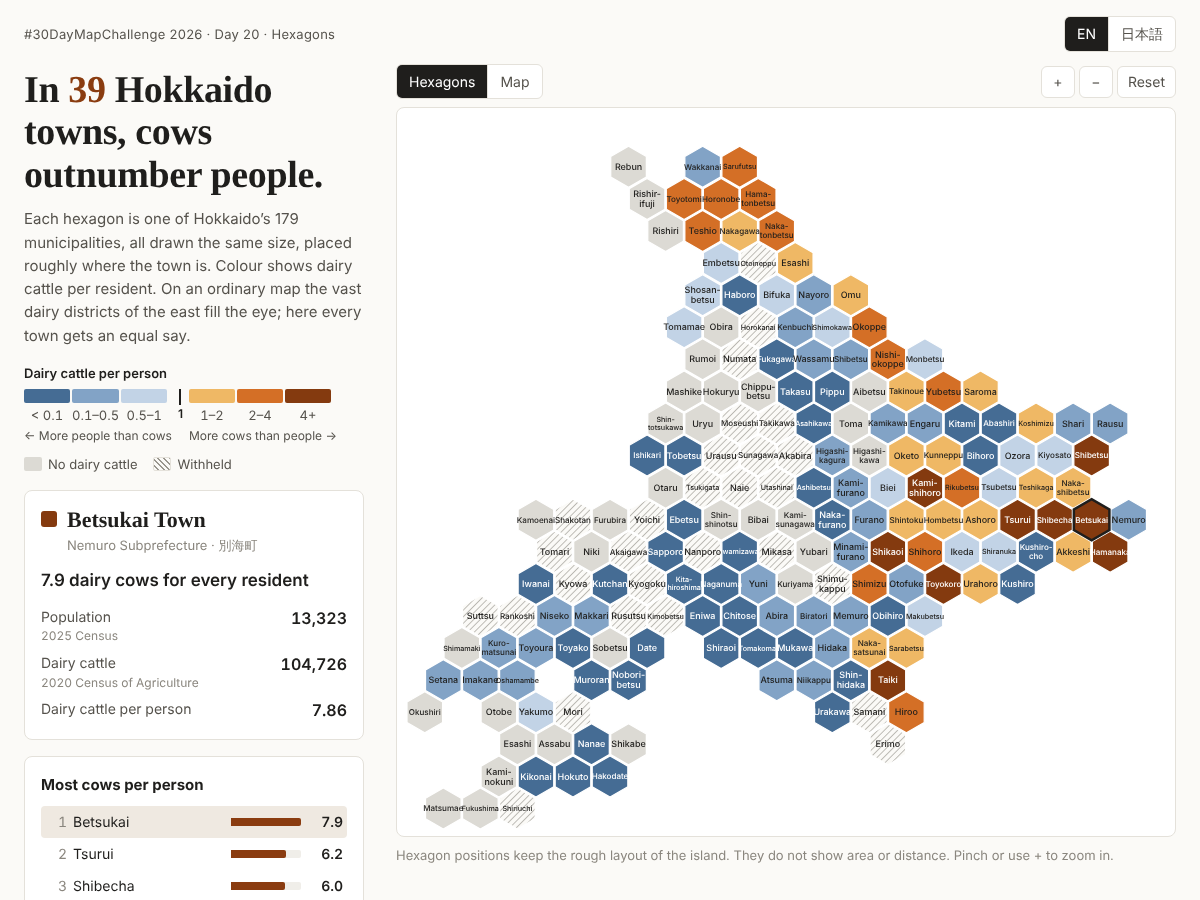
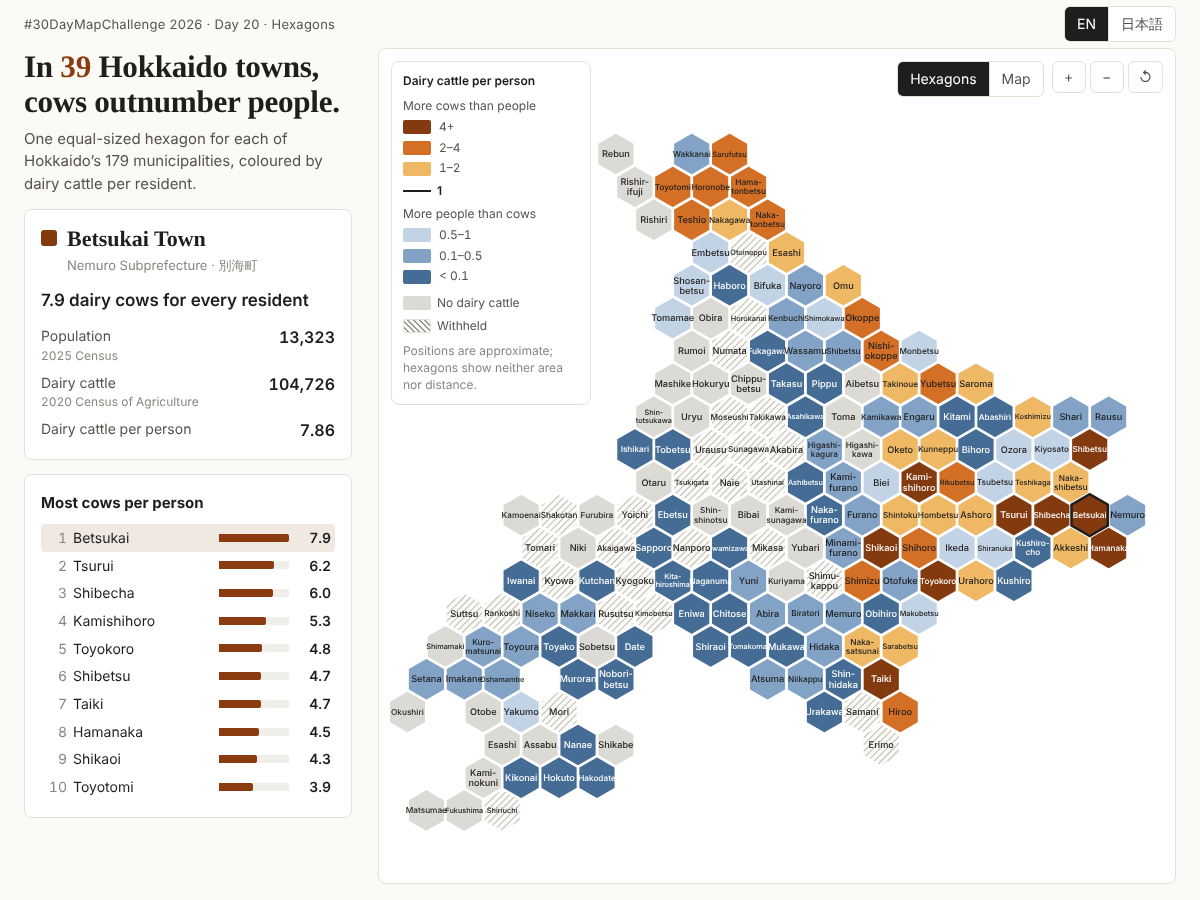
Fit the headline and map on the first screen; overlay the legend and controls on the map

Changed region(s): [[0.0, 0.0, 0.9558, 0.9956], [0.74, 0.0, 0.9867, 0.1244]]

diff --git a/web/style.css b/web/style.css
@@ -26,9 +26,10 @@ a:hover { text-decoration-color: var(--ink); }
 button { font: inherit; color: inherit; }
 
 .top {
-  max-width: 1200px;
+  max-width: 1440px;
   margin: 0 auto;
-  padding: 16px 24px 0;
+  height: 48px;
+  padding: 0 24px;
   display: flex;
   justify-content: space-between;
   align-items: center;
@@ -43,42 +44,35 @@ button { font: inherit; color: inherit; }
 .lang button + button, .seg button + button { border-left: 1px solid var(--rule); }
 .lang button[aria-pressed="true"], .seg button[aria-pressed="true"] { background: var(--ink); color: #fff; }
 
-main { max-width: 1200px; margin: 0 auto; padding: 0 24px 48px; }
+main { max-width: 1440px; margin: 0 auto; padding: 0 24px 48px; }
 
-.intro { padding: 4px 0 0; }
 h1 {
   font-family: var(--serif);
   font-weight: 600;
-  font-size: clamp(28px, 3.2vw, 38px);
+  font-size: clamp(26px, 2.6vw, 34px);
   line-height: 1.12;
-  margin: 0 0 12px;
+  margin: 0 0 8px;
   letter-spacing: -0.01em;
 }
-html[lang="ja"] h1 { letter-spacing: 0; line-height: 1.3; }
+html[lang="ja"] h1 { letter-spacing: 0; line-height: 1.3; font-size: clamp(24px, 2.2vw, 30px); word-break: auto-phrase; }
+html[lang="ja"] .dek { word-break: auto-phrase; }
 h1 .n { color: var(--accent); }
-.dek { margin: 0; color: var(--ink-2); font-size: 15px; }
+.dek { margin: 0; color: var(--ink-2); font-size: 15px; line-height: 1.5; }
 
-.layout {
+/* First screen: panel on the left, map filling the rest of the viewport. */
+.stage {
   display: grid;
-  grid-template-columns: 340px minmax(0, 1fr);
-  grid-template-rows: auto auto auto 1fr;
-  grid-template-areas:
-    "intro map"
-    "legend map"
-    "detail map"
-    "top map";
-  column-gap: 32px;
-  row-gap: 16px;
-  margin-top: 12px;
-  align-items: start;
+  grid-template-columns: 330px minmax(0, 1fr);
+  gap: 24px;
+  height: calc(100vh - 48px);
+  height: calc(100dvh - 48px);
+  min-height: 560px;
+  padding-bottom: 16px;
 }
-.intro { grid-area: intro; }
-.mapcol { grid-area: map; }
-.legend { grid-area: legend; }
-.detail { grid-area: detail; }
-.topcard { grid-area: top; }
+.panel { display: flex; flex-direction: column; gap: 14px; min-height: 0; overflow-y: auto; padding: 2px 2px 2px 0; }
+.panel > * { flex: none; }
+.mapcol { min-height: 0; }
 
-.toolbar { display: flex; justify-content: space-between; align-items: center; gap: 8px; margin-bottom: 8px; flex-wrap: wrap; }
 .zoom { display: inline-flex; gap: 4px; }
 .zoom button {
   min-width: 34px; height: 32px; padding: 0 10px; border: 1px solid var(--rule); background: var(--surface);
@@ -88,13 +82,26 @@ h1 .n { color: var(--accent); }
 
 .mapwrap {
   position: relative;
+  height: 100%;
   background: var(--surface);
   border: 1px solid var(--rule);
   border-radius: 8px;
   overflow: hidden;
   touch-action: none;
 }
-#map { display: block; width: 100%; height: auto; max-height: calc(100vh - 110px); min-height: 320px; cursor: grab; }
+#map { display: block; width: 100%; height: 100%; cursor: grab; }
+
+.ov { position: absolute; z-index: 1; }
+.ov-tools { top: 12px; right: 12px; display: flex; gap: 8px; }
+.ov-legend {
+  right: 12px;
+  bottom: 12px;
+  background: rgba(255, 255, 255, 0.92);
+  border: 1px solid var(--rule);
+  border-radius: 8px;
+  padding: 10px 12px;
+  max-width: 340px;
+}
 #map:active { cursor: grabbing; }
 
 .cell { stroke: var(--surface); stroke-width: 1.2; cursor: pointer; vector-effect: non-scaling-stroke; }
@@ -133,6 +140,8 @@ h1 .n { color: var(--accent); }
 .legend .arm .item { display: flex; flex-direction: column; align-items: center; gap: 2px; min-width: 46px; font-variant-numeric: tabular-nums; }
 .legend .arm .sw { width: 100%; height: 14px; border-radius: 2px; }
 .legend .cap { margin: 2px 0 0; font-size: 12px; }
+.legend .people .cap::before { content: "← "; }
+.legend .cows .cap::after { content: " →"; }
 .legend .mid { align-self: stretch; display: flex; flex-direction: column; align-items: center; }
 .legend .mid i { display: block; width: 2px; height: 16px; background: var(--ink); }
 .legend .mid span { font-size: 12px; color: var(--ink); font-weight: 600; }
@@ -143,11 +152,11 @@ h1 .n { color: var(--accent); }
   background: repeating-linear-gradient(45deg, #fbfaf7 0 2.5px, #9a978f 2.5px 4px) !important;
   border: 1px solid var(--rule);
 }
-.viewnote { font-size: 13px; color: var(--ink-3); margin: 8px 0 0; }
+.viewnote { font-size: 12px; line-height: 1.4; color: var(--ink-3); margin: 8px 0 0; }
 
 .card { background: var(--surface); border: 1px solid var(--rule); border-radius: 8px; padding: 16px; }
 .card h2 { font-size: 15px; margin: 0 0 10px; }
-.detail { min-height: 180px; }
+.detail { min-height: 150px; }
 .detail .prompt { color: var(--ink-3); margin: 0; }
 .detail .dhead { display: flex; gap: 10px; align-items: flex-start; }
 .detail .dhead .sw { flex: none; width: 16px; height: 16px; border-radius: 3px; margin-top: 4px; }
@@ -167,7 +176,7 @@ h1 .n { color: var(--accent); }
   grid-template-columns: 22px 1fr 70px 36px;
   align-items: center;
   gap: 6px;
-  padding: 5px 4px;
+  padding: 3px 4px;
   border-radius: 4px;
   cursor: pointer;
   font-size: 14px;
@@ -194,17 +203,50 @@ th { position: sticky; top: 0; background: var(--bg); font-weight: 600; color: v
 .notes li { margin: 4px 0; }
 .small { font-size: 13px; color: var(--ink-3); }
 
-@media (max-width: 900px) {
-  .layout {
-    grid-template-columns: 1fr;
-    grid-template-rows: none;
-    grid-template-areas: "intro" "map" "legend" "detail" "top";
-  }
-  #map { max-height: none; }
+.about { margin-top: 24px; max-width: 820px; font-size: 15px; color: var(--ink-2); }
+.about h2 { font-size: 15px; color: var(--ink); margin: 0 0 6px; }
+.about p { margin: 0; }
+
+/* Desktop: the legend sits in the empty Sea of Japan at the top left, as a vertical key. */
+@media (min-width: 1081px) {
+  .ov-legend { width: 200px; top: 12px; left: 12px; right: auto; bottom: auto; padding: 10px 11px; font-size: 12px; }
+  .legend { font-size: 12px; }
+  .legend .scale { flex-direction: column-reverse; align-items: stretch; gap: 4px; }
+  .legend .arm { display: flex; flex-direction: column-reverse; }
+  .legend .arm .items { flex-direction: column-reverse; gap: 2px; }
+  .legend .arm .item { flex-direction: row; gap: 8px; min-width: 0; }
+  .legend .arm .sw { width: 28px; height: 14px; flex: none; }
+  .legend .cap { margin: 0 0 3px; color: var(--ink-2); }
+  .legend .people .cap::before, .legend .cows .cap::after { content: none; }
+  .legend .mid { flex-direction: row; align-items: center; gap: 6px; }
+  .legend .mid i { width: 28px; height: 2px; }
+  .legend .extra { flex-direction: column; gap: 4px; }
+  .legend .extra .sw { width: 28px; }
+}
+
+@media (max-width: 1080px) {
+  /* Stack: headline, map (with its controls and legend), then details. */
+  .stage { display: flex; flex-direction: column; height: auto; min-height: 0; gap: 12px; padding-bottom: 0; }
+  .panel { display: contents; }
+  .intro { order: 1; }
+  .mapcol { order: 2; }
+  .detail { order: 3; }
+  .topcard { order: 4; }
+  .mapwrap { height: auto; display: flex; flex-direction: column; }
+  #map { height: auto; max-height: max(300px, calc(100vh - 350px)); max-height: max(300px, calc(100dvh - 350px)); order: 2; }
+  .ov { position: static; }
+  .ov-tools { order: 1; justify-content: space-between; padding: 8px 8px 0; }
+  .ov-legend { order: 3; max-width: none; border: 0; border-top: 1px solid var(--rule); border-radius: 0; background: transparent; }
+  .about { margin-top: 32px; }
 }
 @media (max-width: 640px) {
-  .top { padding: 12px 16px 0; }
+  .top { padding: 0 16px; height: 44px; }
+  .stage { gap: 10px; }
   main { padding: 0 16px 40px; }
-  .legend .arm .item { min-width: 40px; font-size: 12px; }
+  h1 { font-size: 24px; margin-bottom: 6px; }
+  .dek { font-size: 14px; }
+  .legend .arm .item { min-width: 38px; font-size: 11px; }
+  .legend .cap { font-size: 11px; }
+  .legend .extra { margin-top: 6px; font-size: 12px; }
   .detail { min-height: 0; }
 }

diff --git a/web/i18n.js b/web/i18n.js
@@ -4,12 +4,14 @@ window.I18N = {
     title: "Where cows outnumber people",
     kicker: "#30DayMapChallenge 2026 · Day 20 · Hexagons",
     headline: (n) => `In <span class="n">${n}</span> Hokkaido towns, cows outnumber people.`,
-    dek: "Each hexagon is one of Hokkaido’s 179 municipalities, all drawn the same size, placed roughly where the town is. Colour shows dairy cattle per resident. On an ordinary map the vast dairy districts of the east fill the eye; here every town gets an equal say.",
+    dek: "One equal-sized hexagon for each of Hokkaido’s 179 municipalities, coloured by dairy cattle per resident.",
+    aboutTitle: "About this map",
+    about: "Each hexagon is one municipality, placed roughly where it lies on the island. On an ordinary map the vast dairy districts of the east fill the eye, while the small towns around Sapporo almost disappear. On the hexagon grid every municipality is the same size, so a village of 900 people counts as much as a city of two million. Tap or click a hexagon for its numbers; switch to “Map” to see the same values on real boundaries.",
     viewHex: "Hexagons",
     viewGeo: "Map",
     reset: "Reset",
-    viewnoteHex: "Hexagon positions keep the rough layout of the island. They do not show area or distance. Pinch or use + to zoom in.",
-    viewnoteGeo: "The same values on municipal boundaries. Grey dotted outlines: the six villages of the Northern Territories, outside the statistics.",
+    viewnoteHex: "Positions are approximate; hexagons show neither area nor distance.",
+    viewnoteGeo: "Dotted: the six Northern Territories villages, outside the statistics.",
     legendTitle: "Dairy cattle per person",
     legendPeople: "More people than cows",
     legendCows: "More cows than people",
@@ -56,12 +58,14 @@ window.I18N = {
     title: "人より牛が多い町",
     kicker: "#30DayMapChallenge 2026 · Day 20 · Hexagons",
     headline: (n) => `北海道の<span class="n">${n}</span>市町村では、人より牛が多い。`,
-    dek: "六角形の一つひとつが北海道の179市町村です。どの町も同じ大きさで、おおよその位置に並べています。色は人口1人あたりの乳用牛の頭数です。普通の地図では東部の広い酪農地帯ばかりが目に入りますが、ここではどの町も同じ大きさで比べられます。",
+    dek: "北海道の179市町村を同じ大きさの六角形で並べ、人口1人あたりの乳用牛の頭数で色分けしました。",
+    aboutTitle: "この地図について",
+    about: "六角形の一つひとつが1つの市町村で、おおよその位置に並べています。普通の地図では東部の広い酪農地帯ばかりが目に入り、札幌周辺の小さな町はほとんど見えません。六角形にすると、どの市町村も同じ大きさになり、人口900人の村も200万人の市も同じ重みで比べられます。六角形をタップ（クリック）すると数字が出ます。「地図」に切り替えると、同じ値を実際の市町村の形で表示します。",
     viewHex: "六角形",
     viewGeo: "地図",
     reset: "元に戻す",
-    viewnoteHex: "六角形の配置は、町どうしのおおよその位置関係を保ったものです。面積や距離は表していません。ピンチ操作か＋で拡大できます。",
-    viewnoteGeo: "同じ値を市町村の境界で表示しています。灰色の点線は北方領土の6村で、統計の対象外です。",
+    viewnoteHex: "配置はおおよその位置関係です。面積や距離は表していません。",
+    viewnoteGeo: "点線は北方領土の6村（統計の対象外）です。",
     legendTitle: "人口1人あたりの乳用牛の頭数",
     legendPeople: "人の方が多い",
     legendCows: "牛の方が多い",

diff --git a/web/app.js b/web/app.js
@@ -28,7 +28,7 @@
   const svg = d3.select("#map");
   const tip = document.getElementById("tip");
   let towns, byCode, geo, zoom, root, hexLayer, geoLayer, labelLayer;
-  let W, H, hexS;
+  let W, H, hexS, tipTimer;
 
   function ratioOf(t) {
     return t.cattle === null ? null : t.cattle / t.pop;
@@ -104,9 +104,9 @@
       .call(interact);
 
     // Map view: fit Hokkaido (excluding the Northern Territories) into the same box.
-    // Fit Hokkaido proper, leaving room on the right for the Northern Territories outlines.
+    // Fit Hokkaido proper, leaving room for the legend (top left) and the Northern Territories outlines (right).
     const main = { type: "FeatureCollection", features: geo.features.filter((f) => !f.properties.excluded) };
-    const proj = d3.geoTransverseMercator().rotate([-142.8, -43.5]).fitExtent([[12, 12], [W * 0.84, H - 12]], main);
+    const proj = d3.geoTransverseMercator().rotate([-142.8, -43.5]).fitExtent([[W * 0.1, 12], [W * 0.86, H - 12]], main);
     const path = d3.geoPath(proj);
     geoLayer.selectAll("path").data(geo.features).join("path")
       .attr("class", (f) => (f.properties.excluded ? "excluded" : "cell"))
@@ -136,7 +136,15 @@
   }
 
   function interact(sel) {
-    sel.on("click", (ev, t) => { select(t.code); })
+    sel.on("click", (ev, t) => {
+      select(t.code);
+      // On touch screens there is no hover, so show the tooltip briefly.
+      if (ev.pointerType && ev.pointerType !== "mouse") {
+        showTip(ev, t);
+        clearTimeout(tipTimer);
+        tipTimer = setTimeout(hideTip, 2500);
+      }
+    })
       .on("keydown", (ev, t) => { if (ev.key === "Enter" || ev.key === " ") { ev.preventDefault(); select(t.code); } })
       .on("pointermove", (ev, t) => { if (ev.pointerType === "mouse") showTip(ev, t); })
       .on("pointerleave", hideTip)
@@ -170,7 +178,8 @@
 
   // Fit labels into hexagons; hide them when they would be unreadable.
   function updateLabelSize(k) {
-    const px = svg.node().getBoundingClientRect().width / W; // screen px per svg unit at k=1
+    const box = svg.node().getBoundingClientRect();
+    const px = Math.min(box.width / W, box.height / H); // screen px per svg unit at k=1
     const w = Math.sqrt(3) * hexS * 0.94;
     const show = state.view === "hex";
     labelLayer.style("display", show ? null : "none");
@@ -255,9 +264,9 @@
     document.getElementById("legend").innerHTML = `
       <p class="lt">${l.legendTitle}</p>
       <div class="scale">
-        <div class="arm"><div class="items">${people.map(sw).join("")}</div><p class="cap">← ${l.legendPeople}</p></div>
+        <div class="arm people"><div class="items">${people.map(sw).join("")}</div><p class="cap">${l.legendPeople}</p></div>
         <div class="mid" aria-hidden="true"><i></i><span>1</span></div>
-        <div class="arm"><div class="items">${cows.map(sw).join("")}</div><p class="cap">${l.legendCows} →</p></div>
+        <div class="arm cows"><div class="items">${cows.map(sw).join("")}</div><p class="cap">${l.legendCows}</p></div>
       </div>
       <div class="extra">
         <span class="item"><span class="sw" style="background:${BINS[0].color}"></span>${l.none}</span>
@@ -289,6 +298,9 @@
     document.getElementById("credit").innerHTML = `${l.credit}<a href="${REPO}">GitHub</a>`;
     document.getElementById("viewnote").textContent = state.view === "hex" ? l.viewnoteHex : l.viewnoteGeo;
     document.querySelectorAll("[data-lang]").forEach((b) => b.setAttribute("aria-pressed", String(b.dataset.lang === state.lang)));
+    const reset = document.getElementById("zoom-reset");
+    reset.title = l.reset;
+    reset.setAttribute("aria-label", l.reset);
     hexLayer.selectAll("path").attr("aria-label", (t) => `${fullName(t)}: ${fmtRatio(ratioOf(t))}`);
   }
 

diff --git a/web/index.html b/web/index.html
@@ -20,38 +20,46 @@
 </header>
 
 <main>
-  <div class="layout">
-    <section class="intro">
-      <h1 id="headline">In <span class="n">–</span> Hokkaido towns, cows outnumber people.</h1>
-      <p class="dek" data-i18n="dek"></p>
-    </section>
+  <div class="stage">
+    <aside class="panel">
+      <section class="intro">
+        <h1 id="headline">In <span class="n">–</span> Hokkaido towns, cows outnumber people.</h1>
+        <p class="dek" data-i18n="dek"></p>
+      </section>
+      <section id="detail" class="card detail" aria-live="polite"></section>
+      <section class="card topcard">
+        <h2 data-i18n="topTitle">Most cows per person</h2>
+        <ol id="top10" class="top10"></ol>
+      </section>
+    </aside>
 
     <section class="mapcol">
-      <div class="toolbar">
-        <div class="seg" role="group" aria-label="View">
-          <button type="button" data-view="hex" aria-pressed="true" data-i18n="viewHex">Hexagons</button>
-          <button type="button" data-view="geo" aria-pressed="false" data-i18n="viewGeo">Map</button>
-        </div>
-        <div class="zoom">
-          <button type="button" id="zoom-in" aria-label="Zoom in">+</button>
-          <button type="button" id="zoom-out" aria-label="Zoom out">−</button>
-          <button type="button" id="zoom-reset" data-i18n="reset">Reset</button>
-        </div>
-      </div>
       <div class="mapwrap">
         <svg id="map" role="img" aria-labelledby="headline"></svg>
+        <div class="ov ov-tools">
+          <div class="seg" role="group" aria-label="View">
+            <button type="button" data-view="hex" aria-pressed="true" data-i18n="viewHex">Hexagons</button>
+            <button type="button" data-view="geo" aria-pressed="false" data-i18n="viewGeo">Map</button>
+          </div>
+          <div class="zoom">
+            <button type="button" id="zoom-in" aria-label="Zoom in">+</button>
+            <button type="button" id="zoom-out" aria-label="Zoom out">−</button>
+            <button type="button" id="zoom-reset" aria-label="Reset zoom">↺</button>
+          </div>
+        </div>
+        <div class="ov ov-legend">
+          <div id="legend" class="legend"></div>
+          <p class="viewnote" id="viewnote"></p>
+        </div>
         <div id="tip" class="tip" hidden></div>
       </div>
-      <p class="viewnote" id="viewnote"></p>
-    </section>
-
-    <div id="legend" class="legend"></div>
-    <section id="detail" class="card detail" aria-live="polite"></section>
-    <section class="card topcard">
-      <h2 data-i18n="topTitle">Most cows per person</h2>
-      <ol id="top10" class="top10"></ol>
     </section>
   </div>
+
+  <section class="about">
+    <h2 data-i18n="aboutTitle">About this map</h2>
+    <p data-i18n="about"></p>
+  </section>
 
   <details class="table-wrap">
     <summary data-i18n="allTowns">All 179 municipalities</summary>
